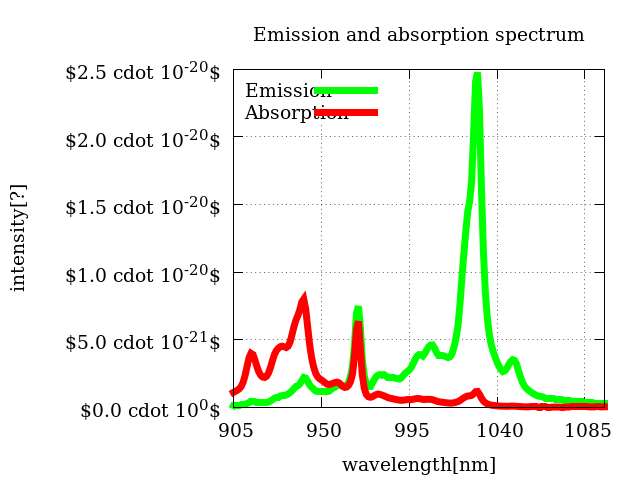
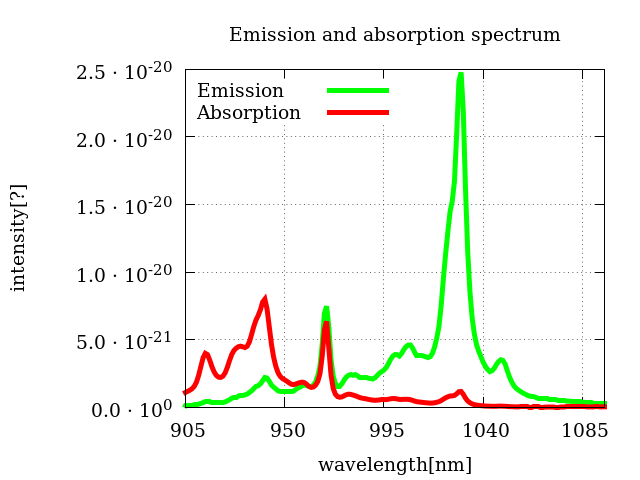
Removed all latex graphics power hazzle ...yaaay

diff --git a/paper/plot/runtime.tex b/paper/plot/runtime.tex
@@ -77,39 +77,39 @@
   \begin{picture}(7200.00,5040.00)%
     \gplgaddtomacro\gplbacktext{%
       \csname LTb\endcsname%
-      \put(1036,896){\makebox(0,0)[r]{\strut{}$10^{0}$}}%
+      \put(1036,896){\makebox(0,0)[r]{\strut{}10^{0}}}%
       \csname LTb\endcsname%
-      \put(1036,1531){\makebox(0,0)[r]{\strut{}$10^{1}$}}%
+      \put(1036,1531){\makebox(0,0)[r]{\strut{}10^{1}}}%
       \csname LTb\endcsname%
-      \put(1036,2165){\makebox(0,0)[r]{\strut{}$10^{2}$}}%
+      \put(1036,2165){\makebox(0,0)[r]{\strut{}10^{2}}}%
       \csname LTb\endcsname%
-      \put(1036,2800){\makebox(0,0)[r]{\strut{}$10^{3}$}}%
+      \put(1036,2800){\makebox(0,0)[r]{\strut{}10^{3}}}%
       \csname LTb\endcsname%
-      \put(1036,3434){\makebox(0,0)[r]{\strut{}$10^{4}$}}%
+      \put(1036,3434){\makebox(0,0)[r]{\strut{}10^{4}}}%
       \csname LTb\endcsname%
-      \put(1036,4069){\makebox(0,0)[r]{\strut{}$10^{5}$}}%
+      \put(1036,4069){\makebox(0,0)[r]{\strut{}10^{5}}}%
       \csname LTb\endcsname%
-      \put(1036,4703){\makebox(0,0)[r]{\strut{}$10^{6}$}}%
+      \put(1036,4703){\makebox(0,0)[r]{\strut{}10^{6}}}%
       \csname LTb\endcsname%
-      \put(1204,616){\makebox(0,0){\strut{}$10^{4}$}}%
+      \put(1204,616){\makebox(0,0){\strut{}10^{4}}}%
       \csname LTb\endcsname%
-      \put(2577,616){\makebox(0,0){\strut{}$10^{5}$}}%
+      \put(2577,616){\makebox(0,0){\strut{}10^{5}}}%
       \csname LTb\endcsname%
-      \put(3950,616){\makebox(0,0){\strut{}$10^{6}$}}%
+      \put(3950,616){\makebox(0,0){\strut{}10^{6}}}%
       \csname LTb\endcsname%
-      \put(5322,616){\makebox(0,0){\strut{}$10^{7}$}}%
+      \put(5322,616){\makebox(0,0){\strut{}10^{7}}}%
       \csname LTb\endcsname%
-      \put(6695,616){\makebox(0,0){\strut{}$10^{8}$}}%
+      \put(6695,616){\makebox(0,0){\strut{}10^{8}}}%
       \put(224,2799){\rotatebox{-270}{\makebox(0,0){\strut{}runtime[s]}}}%
       \put(3949,196){\makebox(0,0){\strut{}rays per sample}}%
     }%
     \gplgaddtomacro\gplfronttext{%
       \csname LTb\endcsname%
-      \put(1372,4500){\makebox(0,0)[l]{\strut{}1 x CPU IS}}%
+      \put(1372,4500){\makebox(0,0)[l]{\strut{}  1 x CPU IS }}%
       \csname LTb\endcsname%
-      \put(1372,4220){\makebox(0,0)[l]{\strut{}1 x GPU IS}}%
+      \put(1372,4220){\makebox(0,0)[l]{\strut{}  1 x GPU IS}}%
       \csname LTb\endcsname%
-      \put(1372,3940){\makebox(0,0)[l]{\strut{}4 x GPU IS}}%
+      \put(1372,3940){\makebox(0,0)[l]{\strut{}  4 x GPU IS}}%
       \csname LTb\endcsname%
       \put(1372,3660){\makebox(0,0)[l]{\strut{}47 x GPU IS}}%
     }%

diff --git a/paper/results.tex b/paper/results.tex
@@ -44,7 +44,7 @@ Spectrum                & Polychromatic (see Figure \ref{plot:polychromatic_spec
 
 \begin{figure}[H]
   \centerline{
-    \resizebox{0.5\textwidth} {!} {\input{plot/sigma.tex}}
+    \resizebox{0.5\textwidth} {!} {\includegraphics{plot/sigma.png}}
   }
   \caption{polychromatic spectrum}
   \label{plot:polychromatic_spectrum}
@@ -142,7 +142,7 @@ improvement for low workloads with a small number of rays.
 \begin{figure}[H]
   \centerline{
     \resizebox{0.5\textwidth}{!}{
-      \input{plot/runtime.tex}
+      \includegraphics{plot/runtime.png}
     }
   }
   \caption{runtime of sequential algorithm compared to parallel algorithm}
